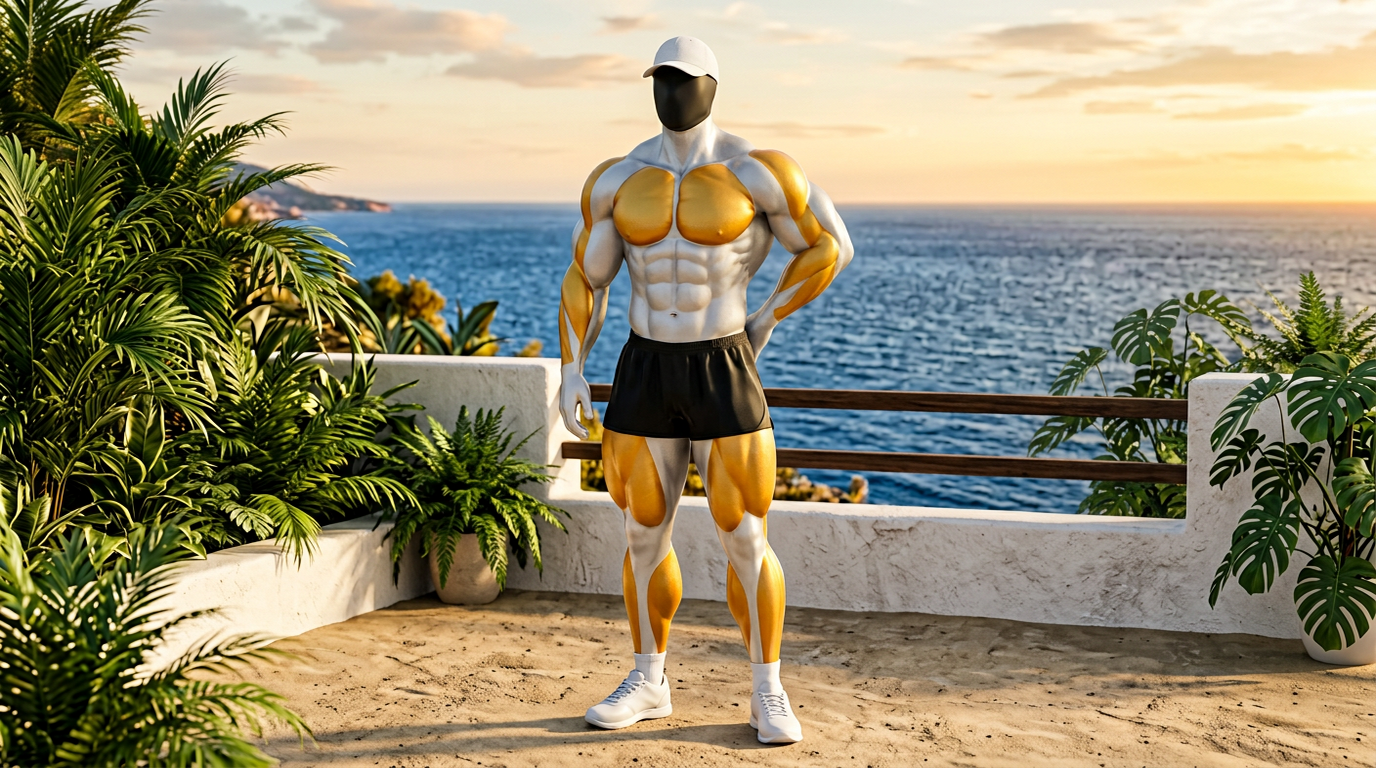
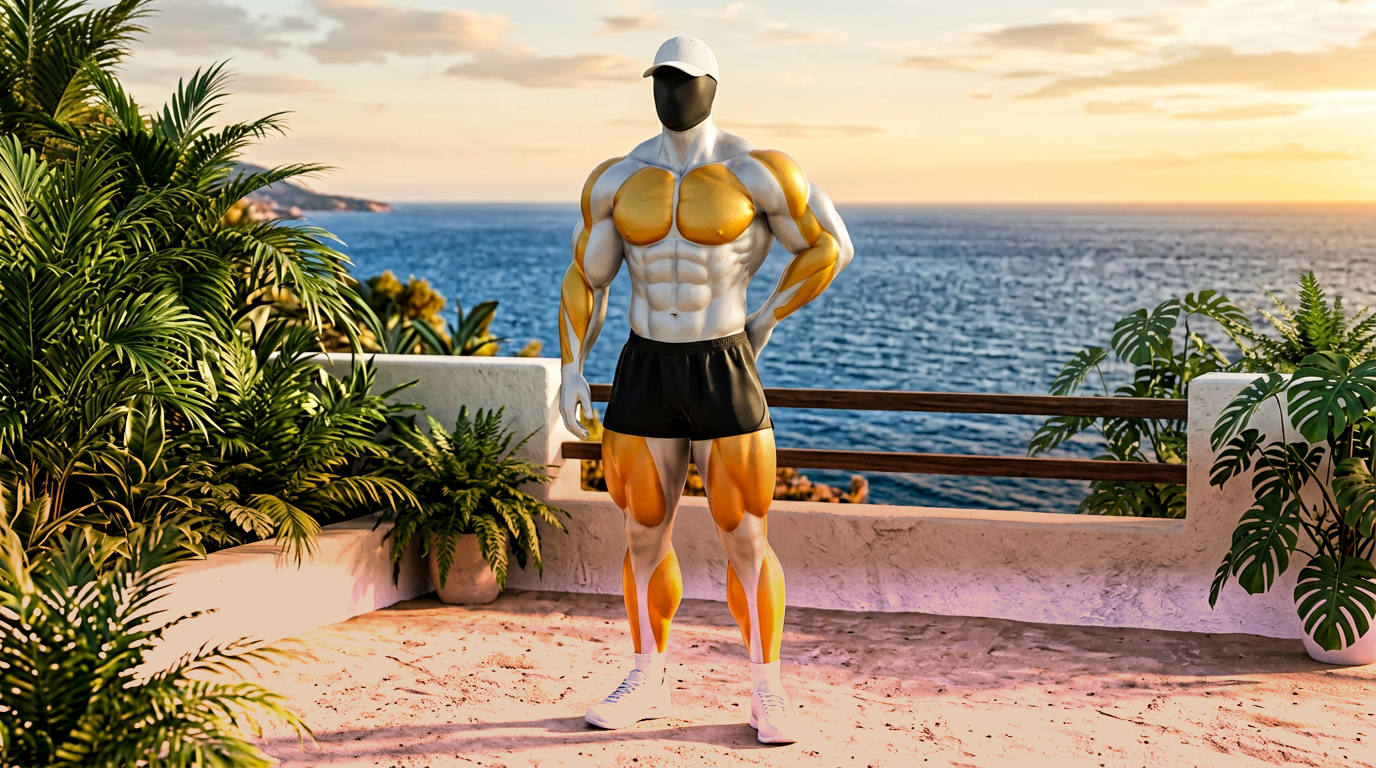
Lots 3-5 : GIF lot3-03, lot4-02, lot4-03 (sol calibré sur région du vérifieur, mer réajustée) ; clés lot5 ; lot3-02 refonte planifiée
- calibration sol : mode des pixels lumineux (V>=0.45, 45 % bas) = région du vérifieur ; gains canaux vers RGB ~236/205/177
- lot3-03 + lot4-02 : 7/7 sol 229 OK, mer 6-8 % ; coins BAS (plantes/ombre) = réserve
- lot4-03 : poses A OK, M/B ombre portée dominante -> édition anti-ombre au prochain tour
- lot3-02 : sol bimodal ombre/soleil non calibrable -> régénération trio au prochain tour (spec sol uniformément ensoleillé)
- lot5-01 M ok ; manifeste n°9-13 + galerie MAJ ; serveur galerie relancé

Changed region(s): [[0.0, 0.5625, 1.0, 1.0]]

diff --git a/yanis-fitness-evolution/animations/_locked/GALERIE-MODULES-1-2.html b/yanis-fitness-evolution/animations/_locked/GALERIE-MODULES-1-2.html
@@ -32,9 +32,9 @@
 <h2>Module 1 — Échauffement (8 min : elliptique, mobilité, activation, geste technique)</h2><div class="grille"><figure><img src="build/corrections/warmup-elliptique-poses/GIF-elliptique-candidatB-foulee-complete-avec-manche-a-corriger.gif" alt="Elliptique — mise en route · CANDIDAT B (foulée complète 4 phases)"><figcaption><b>1a. Elliptique — mise en route · CANDIDAT B (foulée complète 4 phases)</b><ul><li>4 min à allure facile : dos droit, épaules relâchées, pieds posés à plat et cadence régulière. Vous devez pouvoir parler.</li><li>Décor E1 unifié par composite (plaque de fond unique), sol_dom 219 = valeur approuvée le 16/10 pour l'elliptique intégré.</li><li>RÉSERVE À VALIDER : la phase avant (pose 3 corrigée mains) montre encore un petit manchon noir près de la console — à faire sauter si vous choisissez ce candidat.</li></ul><span class="etat attente">à valider / corriger</span></figcaption></figure><figure><img src="build/corrections/warmup-elliptique-poses/GIF-elliptique-candidatC-demi-foulee-sans-defaut.gif" alt="Elliptique — mise en route · CANDIDAT C (demi-foulée, sans aucun défaut)"><figcaption><b>1b. Elliptique — mise en route · CANDIDAT C (demi-foulée, sans aucun défaut)</b><ul><li>Mêmes recommandations que 1a. Aucun artefact : seulement deux phases (arrière ↔ passage), donc mouvement de balancier, pas de foulée complète.</li><li>Choix de repli si le manchon du candidat B est refusé.</li></ul><span class="etat attente">à valider / corriger</span></figcaption></figure><figure><img src="build/corrections/warmup-scapulaire-poses/GIF-scapulaire-fluide-v1.gif" alt="Activation scapulaire · pompes inclinées (GIF fluide v1)"><figcaption><b>1c. Activation scapulaire · pompes inclinées (GIF fluide v1)</b><ul><li>Mains sur un support stable, bras tendus : 2 × 8 pompes scapulaires, omoplates rapprochées puis écartées sans plier les coudes.</li><li>Mesuré CONFORME : sol_dom 228-229, saturation 37-38, lime ≤ 0,01 %, muscles dorés 7,5-8,4 %.</li></ul><span class="etat attente">à valider</span></figcaption></figure><figure><img src="../../public/media/6d278876a579cbc8.gif" alt="Mobilité des épaules (GIF intégré du 13/10, inchangé)"><figcaption><b>1d. Mobilité des épaules (GIF intégré du 13/10, inchangé)</b><ul><li>Bras devant la poitrine : ouvrez puis croisez 8 fois, puis 8 cercles d'épaules lents.</li><li>Déjà approuvé et intégré le 13/10 — non régénéré (règle : un média conforme ne se régénère pas).</li></ul><span class="etat">intégré (pour mémoire)</span></figcaption></figure></div>
 <h2>Module 2 — Étirement · lot 1 (pec, dos, lombaires)</h2><div class="grille"><figure><img src="candidats/2026-10-16-etirement-lot1/GIF-01-encadrement-porte-fluide-v3.gif" alt="Étirement dans l'encadrement de porte (pec) — appui = montant de marbre de la terrasse"><figcaption><b>2. Étirement dans l'encadrement de porte (pec) — appui = montant de marbre de la terrasse</b><ul><li>Appui à hauteur d'épaule, coude ~90°, thorax incliné vers l'avant, abdos engagés, 30-45 s.</li><li>Mesuré : sol 227-234, saturation 37-39, mer 2,2-2,7 % (plage acceptable 2,3-2,9 après contrôle visuel : mer présente au fond).</li></ul><span class="etat attente">à valider</span></figcaption></figure><figure><img src="candidats/2026-10-16-etirement-lot1/GIF-02-bras-mur-fluide-v4.gif" alt="Bras tendu contre le mur (pec)"><figcaption><b>3. Bras tendu contre le mur (pec)</b><ul><li>Bras tendu à hauteur d'épaule, paume au montant, rotation du tronc opposée à l'appui, épaule basse, 30 s par côté.</li><li>4 clés (face → bras posé → demi-rotation → rotation complète) ; colonne mesurée alignée au pixel près sur les 4 clés.</li></ul><span class="etat attente">à valider</span></figcaption></figure><figure><img src="candidats/2026-10-16-etirement-lot1/GIF-03-balasana-fluide-v3.gif" alt="Position de l'enfant / Balasana (dos, lombaires)"><figcaption><b>4. Position de l'enfant / Balasana (dos, lombaires)</b><ul><li>Genoux au sol, hanches vers les talons, bras tendus devant, front vers le sol, respiration dans le dos, 30-45 s.</li><li>Mesuré CONFORME : sol 228-235, saturation 42-44, lime ≤ 0,06 %.</li></ul><span class="etat attente">à valider</span></figcaption></figure></div>
 <h2>Module 2 — Étirement · lot 2 (dos, lombaires, épaule avant)</h2><div class="grille"><figure><img src="candidats/2026-10-16-etirement-lot2/GIF-01-suspension-barre-fluide-v2.gif" alt="Suspension à la barre (dos)"><figcaption><b>5. Suspension à la barre (dos)</b><ul><li>Prise un peu plus large que les épaules, coudes tendus, corps gainé, 20-30 s.</li><li>Mesuré CONFORME après réétalonnage du sol sablé : sol_dom 235, saturation 42, lime 0 %.</li></ul><span class="etat attente">à valider</span></figcaption></figure><figure><img src="candidats/2026-10-16-etirement-lot2/GIF-02-torsion-allongee-fluide-v1.gif" alt="Torsion allongée genoux (dos, lombaires)"><figcaption><b>6. Torsion allongée genoux (dos, lombaires)</b><ul><li>Épaules au sol, genoux groupés basculés d'un côté, regard opposé, 30 s par côté.</li><li>Mesuré CONFORME 7/7 images : sol 234, saturation 40,6, lime ≤ 0,06 %.</li></ul><span class="etat attente">à valider</span></figcaption></figure><figure><img src="candidats/2026-10-16-etirement-lot2/GIF-03-mains-croisees-dos-fluide-v3.gif" alt="Mains croisées derrière le dos (épaule avant)"><figcaption><b>7. Mains croisées derrière le dos (épaule avant)</b><ul><li>Doigts entrelacés derrière le dos, bras tendus et éloignés du dos, poitrine ouverte, épaules basses, 30 s.</li><li>Mer 2,4-2,5 % : dans la plage acceptable 2,3-2,9 après contrôle visuel (mer visible au fond).</li></ul><span class="etat attente">à valider</span></figcaption></figure></div>
-<h2>Module 2 — Étirement · lot 3 (épaule latérale, épaule postérieure, biceps)</h2><div class="grille"><figure><img src="candidats/2026-10-16-etirement-lot3/GIF-01-bras-contre-poitrine-fluide-v3.gif" alt="Bras tendu contre la poitrine (épaule latérale)"><figcaption><b>8. Bras tendu contre la poitrine (épaule latérale)</b><ul><li>Bras horizontal à hauteur de poitrine, avant-bras opposé en crochet, traction vers le corps, épaule basse, 30 s par côté.</li><li>Sol 228-242 (dans la bande 219-253), saturation 39-40, mer 2,6-2,7 % (plage acceptable après contrôle visuel).</li></ul><span class="etat attente">à valider</span></figcaption></figure></div>
-<h2>Module 2 — Étirement · lot 4 (triceps, taille, hanche)</h2><div class="grille"><figure><img src="candidats/2026-10-16-etirement-lot4/GIF-01-coude-dessus-tete-fluide-v1.gif" alt="Coude dessus de la tête (triceps) — GIF fluide v1"><figcaption><b>11. Coude dessus de la tête (triceps) — GIF fluide v1</b><ul></ul><span class="etat attente">à valider</span></figcaption></figure></div>
-<h2>En production (prochains lots, non encore présentés)</h2><div class="grille"><figure><div style="padding:28px;background:#0d1420;color:#8fa1b3;text-align:center">visuel en production — entrée ajoutée dès ses clés contrôlées</div><figcaption><b>—. Lots restants : lot3-02 (refonte sol), lot3-03 (M/B), lot4-02/03, lots 5-8 — 14 visuels en production</b><ul><li>Placeholder : chaque visuel restant aura sa propre entrée dès ses clés validées en interne (contrôle visuel + verifier-pose).</li><li>Cadence : 10 générations d'images maximum par tour de travail — la production se poursuit tour après tour.</li></ul><span class="etat attente">en production</span></figcaption></figure></div>
+<h2>Module 2 — Étirement · lot 3 (épaule latérale, épaule postérieure, biceps)</h2><div class="grille"><figure><img src="candidats/2026-10-16-etirement-lot3/GIF-01-bras-contre-poitrine-fluide-v3.gif" alt="Bras tendu contre la poitrine (épaule latérale)"><figcaption><b>8. Bras tendu contre la poitrine (épaule latérale)</b><ul><li>Bras horizontal à hauteur de poitrine, avant-bras opposé en crochet, traction vers le corps, épaule basse, 30 s par côté.</li><li>Sol 228-242 (dans la bande 219-253), saturation 39-40, mer 2,6-2,7 % (plage acceptable après contrôle visuel).</li></ul><span class="etat attente">à valider</span></figcaption></figure><figure><div style="padding:28px;background:#0d1420;color:#8fa1b3;text-align:center">visuel en production — entrée ajoutée dès ses clés contrôlées</div><figcaption><b>9. Bras devant, main tirée (épaule postérieure) — vue de profil</b><ul></ul><span class="etat attente">à valider</span></figcaption></figure><figure><img src="candidats/2026-10-16-etirement-lot3/GIF-03-bras-derriere-fluide-v1.gif" alt="Bras derrière le dos mains jointes (pectoraux, épaule avant) — GIF fluide v1"><figcaption><b>10. Bras derrière le dos mains jointes (pectoraux, épaule avant) — GIF fluide v1</b><ul></ul><span class="etat attente">à valider</span></figcaption></figure></div>
+<h2>Module 2 — Étirement · lot 4 (triceps, taille, hanche)</h2><div class="grille"><figure><img src="candidats/2026-10-16-etirement-lot4/GIF-01-coude-dessus-tete-fluide-v1.gif" alt="Coude dessus de la tête (triceps) — GIF fluide v1"><figcaption><b>11. Coude dessus de la tête (triceps) — GIF fluide v1</b><ul></ul><span class="etat attente">à valider</span></figcaption></figure><figure><img src="candidats/2026-10-16-etirement-lot4/GIF-02-main-dans-le-dos-fluide-v1.gif" alt="Main dans le dos, flexion latérale (taille, obliques) — GIF fluide v1"><figcaption><b>12. Main dans le dos, flexion latérale (taille, obliques) — GIF fluide v1</b><ul></ul><span class="etat attente">à valider</span></figcaption></figure><figure><img src="candidats/2026-10-16-etirement-lot4/GIF-03-flechisseurs-fluide-v1.gif" alt="Fléchisseurs de hanche à genou (psoas) — GIF fluide v1"><figcaption><b>13. Fléchisseurs de hanche à genou (psoas) — GIF fluide v1</b><ul></ul><span class="etat attente">à valider</span></figcaption></figure></div>
+<h2>En production (prochains lots, non encore présentés)</h2><div class="grille"><figure><div style="padding:28px;background:#0d1420;color:#8fa1b3;text-align:center">visuel en production — entrée ajoutée dès ses clés contrôlées</div><figcaption><b>—. Lots restants : lot3-02 (refonte), lot4-03 M/B (anti-ombre), lot5-01 B, lot5-02/03, lots 6-8 — 12 visuels en production</b><ul><li>Placeholder : chaque visuel restant aura sa propre entrée dès ses clés validées en interne (contrôle visuel + verifier-pose).</li><li>Cadence : 10 générations d'images maximum par tour de travail — la production se poursuit tour après tour.</li></ul><span class="etat attente">en production</span></figcaption></figure></div>
 </main>
 </body>
 </html>
